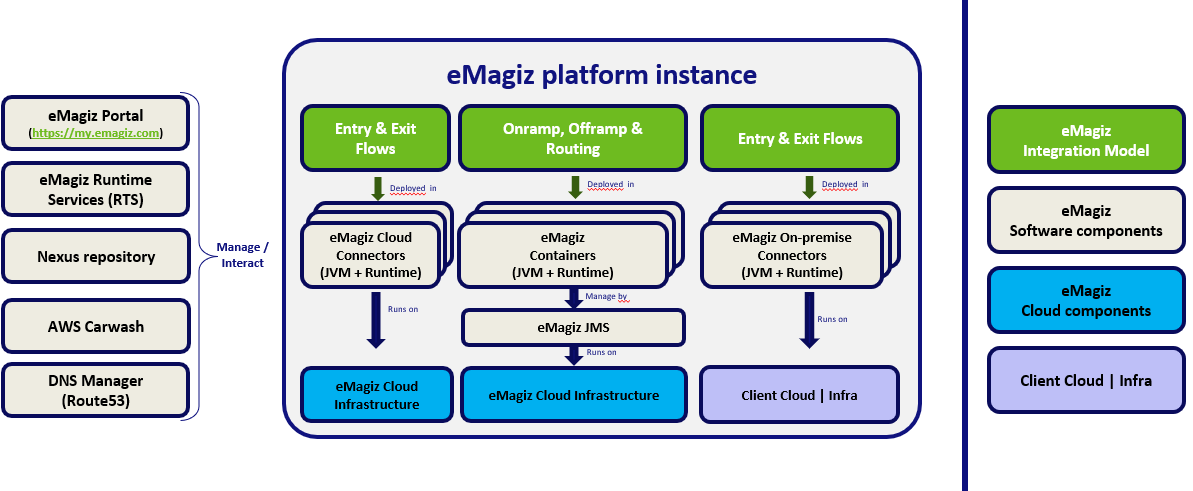
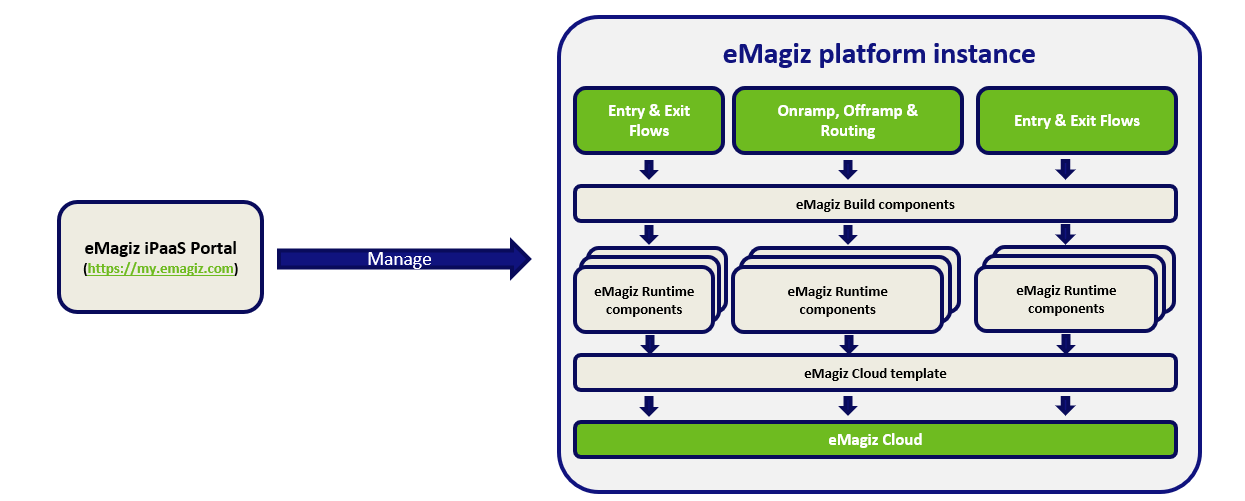
Update release considerations

diff --git a/mds/howto/eMagiz_Platform_release_considerations.md b/mds/howto/eMagiz_Platform_release_considerations.md
@@ -1,24 +1,27 @@
 # eMagiz platform release considerations
 
-Objective of this document is to understand the considerations around the versioning and updates of the technical components of the eMagiz platform. 
+Objective of this document is to understand the key considerations around the versioning and regular updates of the technical components of the eMagiz platform. 
 
 Last update September 12th 2020
 
 
 ## Platform components
 
-**1. Runtime** This is the component to provides the application container where the individual integration flows are deployed into. It's a Java based application container that can run in the Cloud connector, the Local connector or in the Containers that hold the onramps, offramps and routing flows.
-**2. Cloud templates** This provides the components such as OS, Java versions, etc. in which the runtime components can operate in. These are Cloud platform specific.
-**3. Buildnumbers** Every flow created has a specific build number. This build contains the eMagiz software components that work in conjunction with the flows as configured in the Create phase of the eMagiz Portal. 
-**4. eMagiz Portal** Provides web based access to the eMagiz project that contains the Integration model as configured from Capture to Design, and the management components in Deploy & Manage. 
+- **1. Buildnumbers** Every flow created has a specific build number. This build contains the eMagiz software components that work in conjunction with the flows as configured in the Create phase of the eMagiz Portal. 
+- **2. Runtime** This is the component to provides the application container where the individual integration flows are deployed into. It's a Java based application container that can run in the Cloud connector, the Local connector or in the Containers that hold the onramps, offramps and routing flows.
+- **3. Cloud templates** This provides the components such as OS, Java versions, etc. in which the runtime components can operate in. These are Cloud platform specific.
+- **4. eMagiz iPaaS Portal** Provides web based access to the eMagiz project where users can create, update and delete integrations across the Test, Acceptance and Productions environments. Holds access to all configuration options of the eMagiz platform instance required to run these integrations in an optimal manner. 
+- **5. eMagiz Connector for Mendix** Contains the Mendix module that allows the Mendix project to interact with the eMagiz iPaaS instance. Holds the configuration details to connect to the eMagiz instance as well as the Java actions that can be refered to inside Mendix Microflows
 
+
+<p align="center"><img src="../../img/howto/definition-emagiz-model.png"></p>
 
 ## Key considerations 
 
-1. The eMagiz Portal (https://my.emagiz.com) is updated every 2 weeks to allow for user interface improvements and improvements to the integration model (from Capture to Create). According to the EULA, one can expect a downtime of max. 2 hours at this time of the eMagiz Portal. All other services inside client platform are not affected
-2. All buildnumbers released are always backwards compatible with previous build numbers. We are dedicated to ensure client platforms are unaffected by these buildnumbers - as part of the deployment process across Test, Acceptance and Production specifics might be encountered and reported
-3. eMagiz plans a major release once per year that involves migration activitities of the current client installation. A separate release should be created and tested to isolate a potential impact in the current installation. eMagiz makes best efforts to make these migrations as smooth as possible with as little effort as possible for client installations
-4. The eMagiz platform uses Cloud templates that are manage the Cloud machines where the different runtime components are running on. These Cloud templates are released per Cloud environment such as AWS and are updated between 2 and 3 times per year. The deployment of these can be done via the eMagiz Portal, and per availability zone in case a failover setup has been chosen. The expected downtime for failover setups is none, for single lane setups between 10 and 15 minutes. Messaging traffic is only impacted with a delay - no messages are lost.
+1. The eMagiz iPaaS Portal (https://my.emagiz.com) is updated every 2 weeks to allow for user interface improvements and improvements to the integration model. According to the EULA, clients can expect a downtime of max. 2 hours of the eMagiz Portal. All other services inside client platform are not affected and will continue to run as normal.
+2. All buildnumbers released are always backwards compatible with previous build numbers. We are dedicated to ensure client platforms are unaffected by these buildnumbers improvements.
+3. eMagiz plans a major release once per year that involves migration activitities of the current client installation. A separate eMagiz Release should be created and tested to isolate a potential impact in the current configuration of the eMagiz instance. eMagiz makes best efforts to make these migrations as smooth as possible with as little effort as possible for client installations.
+4. The eMagiz platform uses Cloud templates that are managing the Cloud machines where the different runtime components are running on. These Cloud templates are released per Cloud environment such as AWS and are updated between 2 and 3 times per year. The deployment of these can be done via the eMagiz Portal, and per availability zone in case a failover setup is used. The expected downtime for failover setups is none, for single lane setups between 10 and 15 minutes. Messaging traffic is only impacted with a delay - no messages are lost.
 5. Each of the components list in the previous section is supported 2 years from the moment the next version is released. 
 
 
@@ -32,6 +35,8 @@ Last update September 12th 2020
 **Supported versions**
 - Version 5.0.2 - released October 19th 2018
 - Version 5.0.3 - released May 17th 2019 
+
+See also release notes under the Community section of the eMagiz iPaaS Portal or this link: https://emagiz.github.io/docs/release-notes/index_runtime.html
 
 ### Cloud templates
 **Non-supported versions**
@@ -49,9 +54,23 @@ Last update September 12th 2020
 **Supported versions ROOT**
 - V24
 
+See also release notes under the Community section of the eMagiz iPaaS Portal or this link: https://emagiz.github.io/docs/release-notes/index_cloud.html
+
+
 ### Build numbers
 **Non-supported versions**
 - All build numbers lower than build 46 (released September 9th 2019)
 
 **Supported versions**
 - All build numbers higher than or equal to build 46
+
+See also release notes under the Community section of the eMagiz iPaaS Portal or this link: https://emagiz.github.io/docs/release-notes/index_build.html
+
+### eMagiz Connector for Mendix
+**Non-supported versions**
+- All EMC versions lower than version 3.0.2
+
+**Supported versions**
+- All EMC versions higher of equal than version 3.0.2
+
+See also release notes under the Community section of the eMagiz iPaaS Portal or this link: https://emagiz.github.io/docs/release-notes/index_runtime.html

diff --git a/mds/release-notes/index_runtime.md b/mds/release-notes/index_runtime.md
@@ -2,7 +2,6 @@
 
 |Release number | Release name| Release date|
 |---|---|---|
-
 |[emc 4.1.1](emc4.1.1.md)| Accelerate| 2020-09-04|
 |[emc 4.1.0](emc4.1.0.md)| Lift me Up| 2020-05-01|
 |[emc 4.0.1](emc4.0.1.md)| We remain| 2020-03-20|
